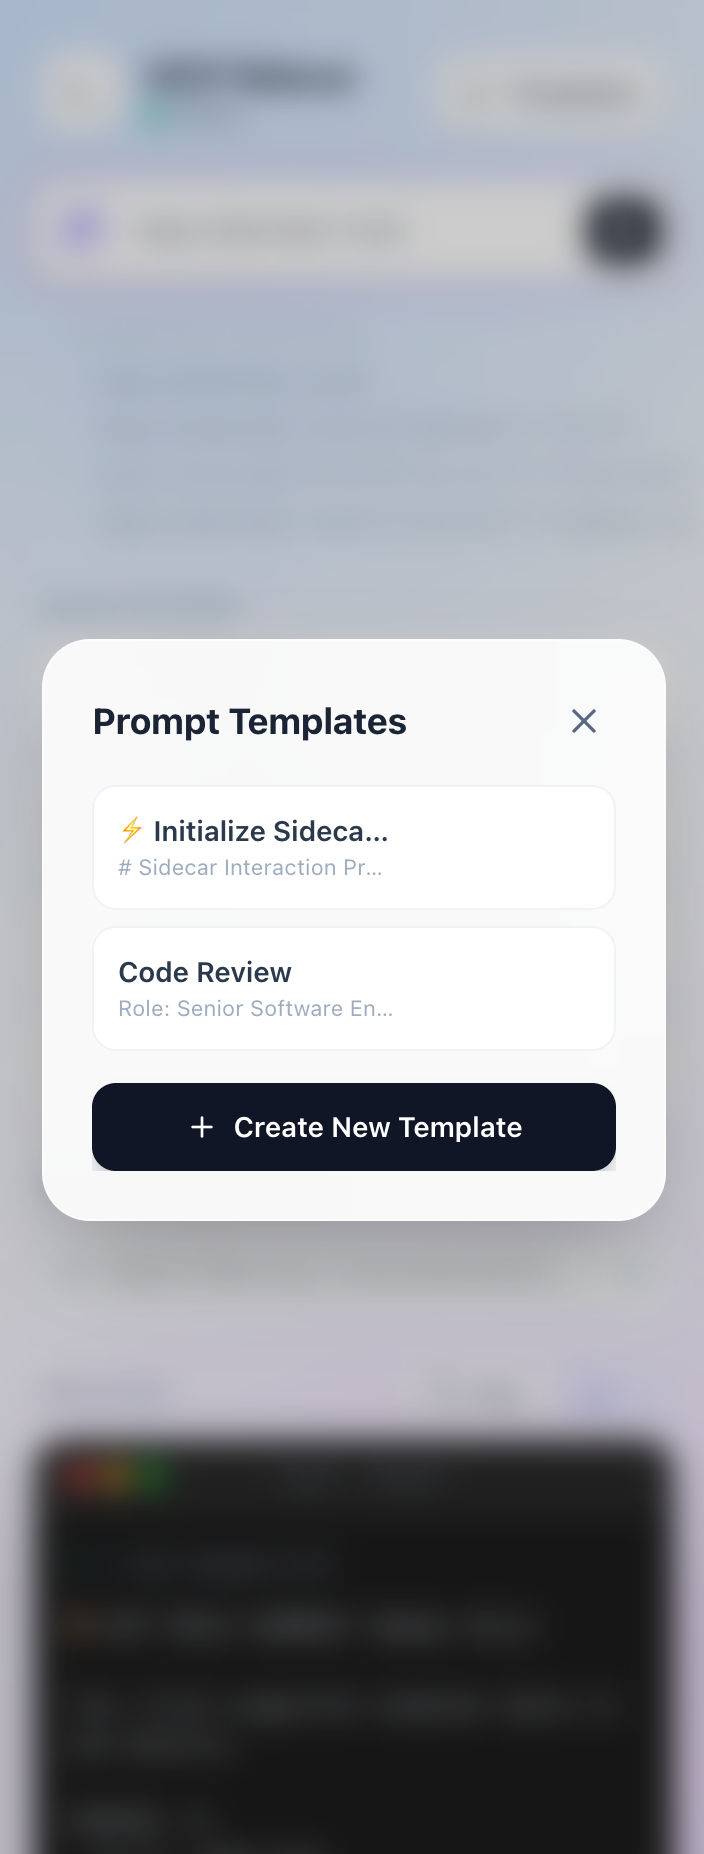
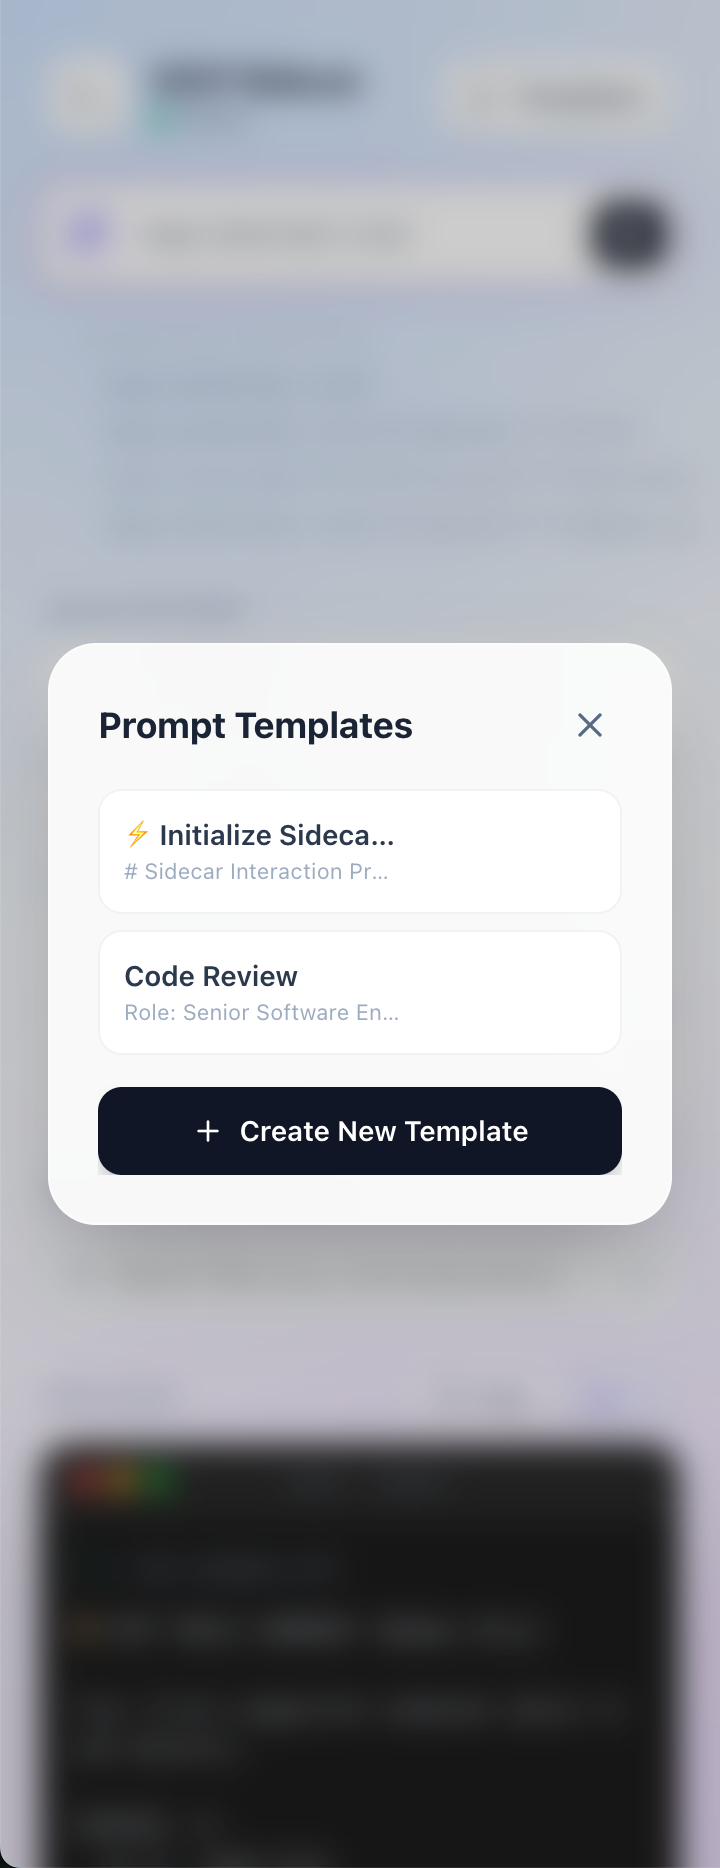
fix: change size

diff --git a/README.en.md b/README.en.md
@@ -99,6 +99,6 @@ A: Enter a file path (e.g., `src/App.tsx`) in the Input box and hit Enter to rea
 ## UI
 
 <div style="display:inline-flex">
-<img src="./img/ui.png" width="50%" />
-<img src="./img/prompt.png" width="50%" />
+<img src="./img/ui.png" width="30%" />
+<img src="./img/prompt.png" width="30%" />
 </div>
